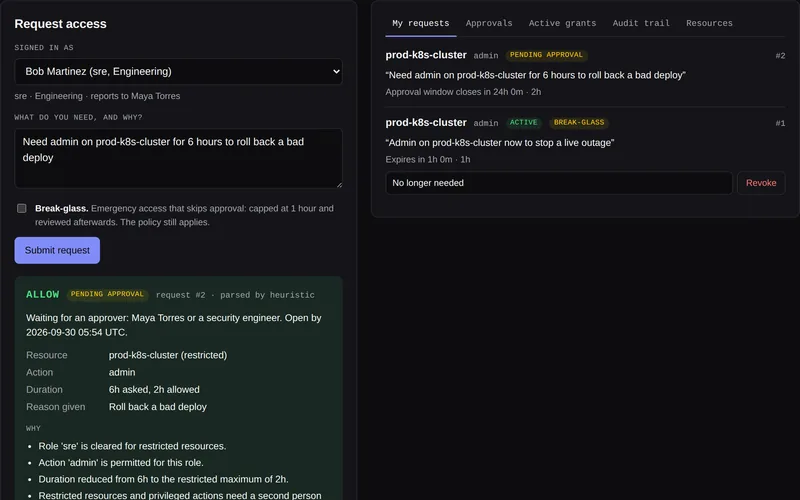
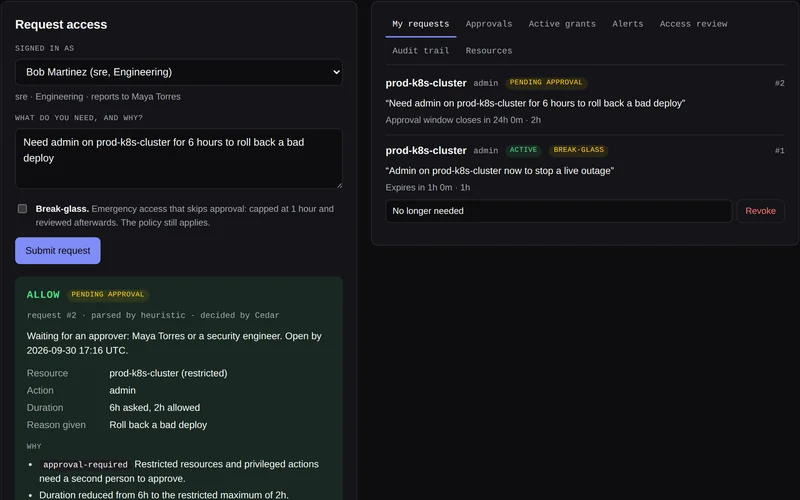
Aegis case study: add a live demo callout and bring it up to date
- A 'Try it live' callout under the preview links to xeoul.github.io/aegis.
- Text now matches the current project: decisions come from Cedar (not a hand-written
  rules engine), plus short-lived AWS STS credentials, detection and access review, the
  security CI, and the in-browser Cedar build. Homepage entry updated to match.
- Preview image re-captured from the current demo (same scene and crop).

Claude-Session: https://claude.ai/code/session_01LaZ1uNj9US1CWJ1Q1V1XJo

diff --git a/docs/projects/aegis/index.html b/docs/projects/aegis/index.html
@@ -3,11 +3,11 @@
 <head>
     <meta charset="utf-8">
     <meta name="viewport" content="width=device-width, initial-scale=1.0, shrink-to-fit=no">
-    <meta name="description" content="How Aegis works: a just-in-time IAM engine where Claude parses plain-English access requests, a rules engine decides them, and grants expire on their own, with a tamper-evident audit trail. Live demo runs in the browser.">
+    <meta name="description" content="How Aegis works: a just-in-time IAM engine where Claude parses plain-English access requests, the Cedar policy engine decides them, and grants expire on their own, with a tamper-evident audit trail. Live demo runs in the browser.">
     <meta property="og:type" content="article">
     <meta property="og:url" content="https://xeoul.github.io/projects/aegis/">
     <meta property="og:title" content="Aegis case study - Vincent Lam">
-    <meta property="og:description" content="How Aegis works: a just-in-time IAM engine where Claude parses plain-English access requests, a rules engine decides them, and grants expire on their own, with a tamper-evident audit trail. Live demo runs in the browser.">
+    <meta property="og:description" content="How Aegis works: a just-in-time IAM engine where Claude parses plain-English access requests, the Cedar policy engine decides them, and grants expire on their own, with a tamper-evident audit trail. Live demo runs in the browser.">
     <meta property="og:image" content="https://xeoul.github.io/images/projects/aegis.webp">
     <meta property="og:image:width" content="800">
     <meta property="og:image:height" content="500">
@@ -104,7 +104,7 @@
                         <dl class="case-meta">
                             <div>
                                 <dt>Stack</dt>
-                                <dd>Python, FastAPI, SQLAlchemy, SQLite, Pydantic, Claude API, PyJWT, APScheduler, Pyodide</dd>
+                                <dd>Python, FastAPI, Cedar, SQLAlchemy, SQLite, Pydantic, Claude API, PyJWT, AWS STS, APScheduler, Pyodide</dd>
                             </div>
                             <div>
                                 <dt>Links</dt>
@@ -118,6 +118,14 @@
 
                     <img class="case-preview" src="/images/projects/aegis.webp" width="800" height="500" decoding="async" alt="Aegis demo: an SRE's request for admin on the production Kubernetes cluster, allowed by policy, cut from 6 hours to 2, and waiting for a second approver">
 
+                    <aside class="case-demo" aria-labelledby="case-demo-title">
+                        <div>
+                            <p class="case-demo-label" id="case-demo-title">Try it live</p>
+                            <p>Sign in as one of ten fictional people, ask for access in plain English, approve someone else's request, then tamper with the audit trail and watch the check catch it. It all runs in your browser, with nothing to install.</p>
+                        </div>
+                        <a class="case-demo-link" href="https://xeoul.github.io/aegis/" target="_blank" rel="noopener noreferrer">Open the live demo <span aria-hidden="true">&nearr;</span></a>
+                    </aside>
+
                     <section class="case-section" aria-labelledby="problem">
                         <h2 id="problem">The problem</h2>
                         <p>Access tends to pile up. Someone needs the production database for an afternoon, gets it through a ticket, and still has it a year later, because removing it is a second manual step nobody owns. The safer pattern is just-in-time access: grant exactly what's needed, for as long as it's needed, and take it away automatically. Aegis puts that behind a plain-English request, so asking stays as easy as sending a message.</p>
@@ -127,33 +135,37 @@
                         <h2 id="features">What it does</h2>
                         <ul>
                             <li><strong>Plain-English requests:</strong> "Need admin on prod-k8s-cluster for 6 hours to roll back a bad deploy" becomes a structured policy: resource, action, reason and duration.</li>
-                            <li><strong>A policy decision with reasons:</strong> a rules engine checks the requester's role and department against the resource and returns ALLOW or DENY, with a reason for every rule.</li>
+                            <li><strong>A policy decision with reasons:</strong> Cedar policies check the requester's role and department against the resource and return ALLOW or DENY, naming every rule that blocked the request.</li>
                             <li><strong>Time limits by sensitivity:</strong> grants are capped at 72 hours for public resources, 24 for internal, 8 for confidential and 2 for restricted.</li>
                             <li><strong>A second person for risky access:</strong> restricted resources, and anything that deletes or administers, wait up to 24 hours for an eligible approver.</li>
                             <li><strong>Break-glass:</strong> emergency access skips the wait but still has to pass the policy, is capped at 1 hour, and stays in the approvers' queue until someone reviews it.</li>
                             <li><strong>Automatic revocation:</strong> grants end when they expire, when revoked early, or when the person leaves, moves department or changes role.</li>
+                            <li><strong>Short-lived AWS credentials:</strong> an approved grant can be exchanged for STS credentials limited to that one action on that one resource, which expire with the grant.</li>
                             <li><strong>A tamper-evident audit trail</strong> of every request, decision, approval and revocation, with an endpoint that checks it hasn't been edited.</li>
+                            <li><strong>Detection and review:</strong> rules flag prompt-injection attempts, privilege-escalation attempts and break-glass use, and an access review report gives auditors per-person recommendations and control checks.</li>
                         </ul>
                     </section>
 
                     <section class="case-section" aria-labelledby="build">
                         <h2 id="build">How it's built</h2>
-                        <p>A FastAPI service on SQLite through SQLAlchemy 2, with Pydantic v2 models and an APScheduler job that sweeps for expired grants and stale approvals every minute. Requests are parsed by Claude with structured outputs, so every reply validates against the policy schema; without an API key, a keyword parser takes over. Sign-in is by JWT: Aegis can issue its own tokens for local use, or verify tokens from an external identity provider (Keycloak, Okta, Entra ID, Auth0) against its published keys.</p>
-                        <p>A pytest suite covers the policy rules, the approval workflow, authentication and the audit chain, and runs offline in CI.</p>
+                        <p>A FastAPI service on SQLite through SQLAlchemy 2, with Pydantic v2 models and an APScheduler job that sweeps for expired grants and stale approvals every minute. Requests are parsed by Claude with structured outputs, so every reply validates against the policy schema; without an API key, a keyword parser takes over. Decisions come from Cedar, the policy language behind AWS Verified Permissions, with policies checked against a schema at startup. Sign-in is by JWT: Aegis can issue its own tokens for local use, or verify tokens from an external identity provider (Keycloak, Okta, Entra ID, Auth0) against its published keys.</p>
+                        <p>A pytest suite covers the policy rules, the approval workflow, authentication, the audit chain and the AWS broker (against a mocked AWS), including tests that hijack the parser to prove the policy still holds. CI also runs Ruff, mypy, Bandit, pip-audit and CodeQL.</p>
                     </section>
 
                     <section class="case-section" aria-labelledby="decisions">
                         <h2 id="decisions">Key decisions</h2>
                         <h3>The model reads, the policy decides</h3>
-                        <p>Claude only extracts what was asked for; its instructions say not to judge, soften or refuse, because a separate engine makes the decision. Structured outputs guarantee the reply fits the schema, a resource that isn't in the catalog becomes "unknown" and is denied, and the request text is treated as untrusted data, so instructions hidden in it can't change the rules. The decision itself is plain code that can be read and tested.</p>
+                        <p>Claude only extracts what was asked for; its instructions say not to judge, soften or refuse, because a separate engine makes the decision. Structured outputs guarantee the reply fits the schema, a resource that isn't in the catalog becomes "unknown" and is denied, and the request text is treated as untrusted data, so instructions hidden in it can't change the rules. The decision itself comes from Cedar policies that can be read, validated and tested.</p>
                         <h3>Separation of duties</h3>
                         <p>Nobody approves their own request. An approver must be the requester's manager, a manager in the department that owns the resource, or a security engineer. Identity admins and auditors can't approve, so provisioning, approving and auditing stay with different people, and being an admin grants no access to resources at all. The policy is checked again when the approver acts, in case the requester's role changed in the meantime.</p>
                         <h3>An audit trail that shows tampering</h3>
                         <p>Each audit entry stores the previous entry's hash and an HMAC-SHA256 of itself and that hash, keyed with a secret kept outside the database. Editing, deleting or reordering a row breaks the chain from that point, someone with only database access can't rebuild it, and a unique constraint on the previous hash stops two writers from forking it.</p>
                         <h3>Identity comes only from the token</h3>
                         <p>Who is asking is never taken from the request body. Tokens are matched to people by their email claim, deactivated accounts are refused, and tokens from an external provider must be RS256 or ES256 with a valid issuer, audience and expiry.</p>
+                        <h3>Credentials that can be taken back</h3>
+                        <p>AWS STS credentials can't be recalled once issued. Each session is named after its grant, so revoking early adds a deny rule for that one session name to the role, which blocks credentials already handed out; once they would have expired anyway, the rule is cleaned up.</p>
                         <h3>A live demo with no server</h3>
-                        <p>The demo runs the real service in your browser: Pyodide (Python compiled to WebAssembly) loads the Aegis source, and a small bridge hands each request straight to the FastAPI app. It swaps in the keyword parser, since a public page can't hold an API key, runs the scheduler's sweep from the page, and adds a clock you can skip forward to watch grants expire.</p>
+                        <p>The demo runs the real service in your browser: Pyodide (Python compiled to WebAssembly) loads the Aegis source, and a small bridge hands each request straight to the FastAPI app. Cedar's own WebAssembly build makes the decisions, so they match the server's, and CI checks that they do. It swaps in the keyword parser, since a public page can't hold an API key, runs the scheduler's sweep from the page, and adds a clock you can skip forward to watch grants expire.</p>
                     </section>
 
                     <section class="case-section" aria-labelledby="limits">

diff --git a/docs/index.html b/docs/index.html
@@ -285,10 +285,11 @@
                         </summary>
                         <div class="project-body">
                             <img class="project-preview" src="images/projects/aegis.webp" width="800" height="500" loading="lazy" decoding="async" alt="Aegis demo: an SRE's request for admin on the production Kubernetes cluster, allowed by policy, cut from 6 hours to 2, and waiting for a second approver">
-                            <p class="project-description">A just-in-time IAM engine. People ask for temporary access in plain English, Claude turns the request into an attribute-based policy, and a rules engine allows or denies it. Risky access waits for a second approver, grants revoke themselves when they expire, and every step goes into an HMAC hash-chained audit trail.</p>
+                            <p class="project-description">A just-in-time IAM engine. People ask for temporary access in plain English, Claude turns the request into an attribute-based policy, and the Cedar policy engine allows or denies it. Risky access waits for a second approver, grants revoke themselves when they expire, and every step goes into an HMAC hash-chained audit trail.</p>
                             <div class="tech-tags">
                                 <span class="tech-tag">Python</span>
                                 <span class="tech-tag">FastAPI</span>
+                                <span class="tech-tag">Cedar</span>
                                 <span class="tech-tag">SQLAlchemy</span>
                                 <span class="tech-tag">Claude API</span>
                                 <span class="tech-tag">Pyodide</span>

diff --git a/docs/styles.css b/docs/styles.css
@@ -2214,6 +2214,55 @@ html.printing *::after {
   background: var(--color-surface);
 }
 
+.case-demo {
+  display: flex;
+  flex-wrap: wrap;
+  align-items: center;
+  justify-content: space-between;
+  gap: 12px 24px;
+  margin-top: 20px;
+  padding: 16px 18px;
+  border: 1px solid var(--color-border);
+  border-left: 3px solid var(--color-accent);
+  border-radius: var(--radius);
+  background: var(--color-accent-tint);
+}
+
+.case-demo > div {
+  flex: 1 1 320px;
+}
+
+.case-demo p {
+  margin: 0;
+  font-size: 14px;
+  color: var(--color-ink);
+}
+
+.case-demo .case-demo-label {
+  margin-bottom: 4px;
+  font-family: var(--font-mono);
+  font-size: 11px;
+  text-transform: uppercase;
+  letter-spacing: 0.04em;
+  color: var(--color-accent);
+}
+
+.case-demo-link {
+  flex: none;
+  padding: 9px 14px;
+  border: 1px solid var(--color-accent);
+  border-radius: var(--radius);
+  font-family: var(--font-mono);
+  font-size: 13px;
+  text-decoration: none;
+  white-space: nowrap;
+}
+
+.case-demo-link:hover {
+  background: var(--color-accent);
+  color: var(--color-bg);
+}
+
 .case-section {
   margin-top: 36px;
 }
